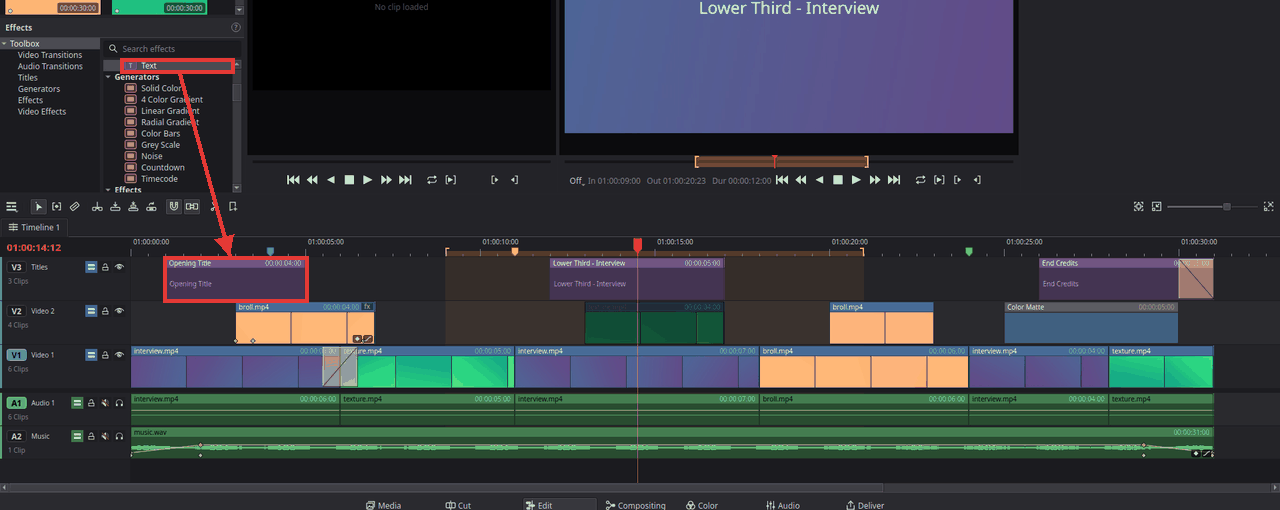
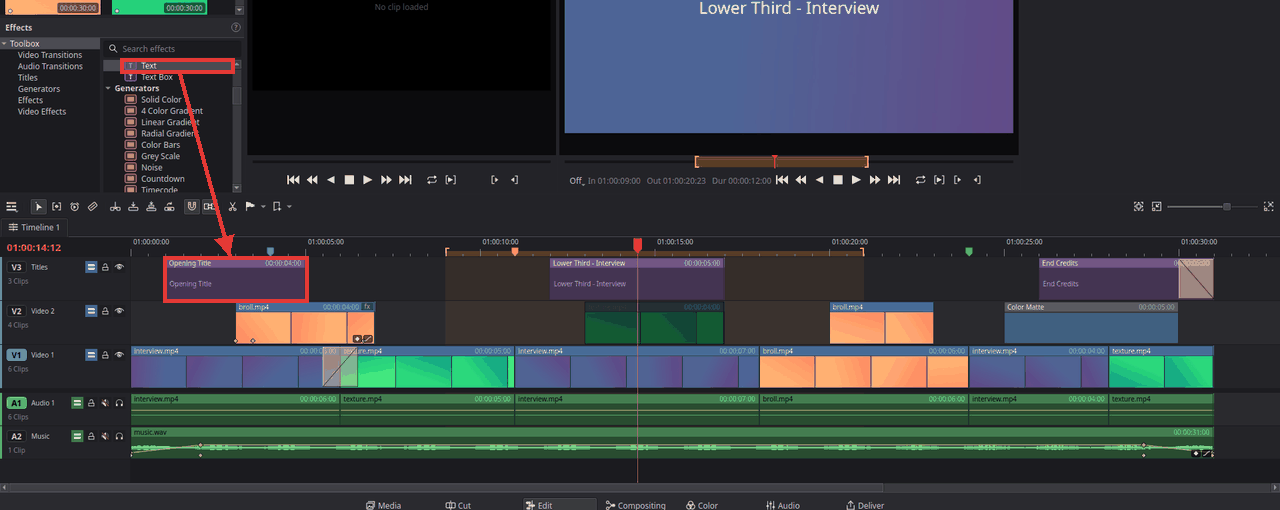
Guide and spec: title presets, round 10 rows
The getting-started guide's Add a title steps name the presets, the
Title tab opening on selection, Position, Anchor and Scroll; the help
index maps the presets to it; the library screenshot is retaken.
Spec rows 5.5, 14.6 - 14.9, 35.28 and the round summary.

diff --git a/docs/behavior-spec.md b/docs/behavior-spec.md
@@ -120,6 +120,7 @@ convention switches live in `PlaybackBehaviour` (`src/playback/PlaybackEngine.h`
 | 5.2 | A modifier during the drop inserts instead of overwriting. | Decision: Ctrl inserts (no single convention is universal). |
 | 5.3 | Effects dropped on a clip are applied to it; transitions dropped near an edge go to that edge. | OK (tw dropEffectsTransitionsAndTitles) |
 | 5.4 | Titles / generators dropped on a video track create a clip of the standard generator length. | OK (tw dropEffectsTransitionsAndTitles) |
+| 5.5 | A drop in the empty space above the top video track or below the last audio track creates only the tracks its clips land on: a video-only clip makes a new video track and no empty audio track, an audio-only clip a new audio track and no empty video track. | Fixed (bughunt10: a video-only clip dropped above V1 also created an empty A2; `planDrop()` keeps only the needed new tracks; test_timelinedrop spec5_5_videoOnlyAboveCreatesNoAudioTrack, spec5_5_audioOnlyBelowCreatesNoVideoTrack) |
 
 ## 6. Destination controls and auto track selectors
 
@@ -276,6 +277,10 @@ convention switches live in `PlaybackBehaviour` (`src/playback/PlaybackEngine.h`
 | 14.3 | Title text and style are edited in the inspector, one undo step per typing burst. | OK (in titleClipTextIsOneUndoStepPerBurst) |
 | 14.4 | Titles and generators can be trimmed to any length (no media limit). | OK (eo, sourceDurationUs = 0) |
 | 14.5 | A new Text title (Effects > Titles > Text) reads "Basic Title", as in Resolve; titles of older projects keep their text. | Fixed (bughunt7: it read "Title"; test_bughunt7edit spec14_5_newTextTitleReadsBasicTitle) |
+| 14.6 | Effects > Titles holds our own presets, as a Resolve user looks for them: Left Lower Third, Middle Lower Third, Right Lower Third (a name and a role low in the frame on a dark box), Scroll (rolling credits), Text and Text Box (text on a plain box). They are Title clips with the same parameters and only other defaults (our own simple design: system font, flat box); a preset clip is named after the preset, and the Inspector's Title tab shows one group named after it (text, font, size, colours, outline, background box, Position X / Y, Anchor, Scroll; reset goes back to the preset's defaults). Titles of different presets edit together when several are selected. | Fixed (bughunt10: the library had only Text; `EffectRegistry::registerTitles()`, core/TitlePresets.h, `ClipData::generator` of Title clips; test_bughunt10 spec14_6_titlePresetsInTheLibrary) |
+| 14.7 | A title's Position X / Position Y place its text block (0 .. 1 of the frame from the left and from the bottom, 0.5 = centre, keyframable), and Anchor says which side of the block sits at Position X (a left lower third grows to the right). The default (0.5, 0.5, centre) is the centred block titles always had. GPU and CPU draw the same pixels. | Fixed (bughunt10: a title could only be moved with the Video tab's transform; `TitleStyle::posX / posY / anchor`; test_compositor spec14_7_titlePositionAndAnchor) |
+| 14.8 | A title with Scroll on (the Scroll preset) rolls up through the frame over the clip's duration: the first frame has the text just below the bottom edge, the last frame just above the top, so a longer clip scrolls more slowly; Position Y is not used. GPU and CPU draw the same pixels. | Fixed (bughunt10: there was no scroll; `TitleStyle::scroll / scrollProgress`; test_compositor spec14_8_scrollRollsOverTheClip) |
+| 14.9 | Selecting a title clip shows the Inspector's Title tab, where its text and look are, as Resolve shows a Text title's controls first; selecting a clip without a title afterwards goes back to the Video tab (as captions, 28.15). | Fixed (bughunt10: the Inspector stayed on the Video tab; `InspectorPanel::showClip()`; test_bughunt10 spec14_9_selectingATitleShowsTheTitleTab) |
 
 ## 15. Keyframes (inspector, keyframe editor, curve editor)
 
@@ -756,6 +761,7 @@ tests/core/test_sourcetape.cpp.
 | 35.25 | Inspector, effects and titles panels on the Cut page. | Deferred: use the Edit page (the selection carries over). |
 | 35.26 | Dragging media onto the Cut page's timeline viewer shows the smart edits as an overlay (Smart Insert, Append, Ripple Overwrite, Close Up, Place On Top, Source Overwrite, with their keys); dropping on one runs it with the dropped clips (one undo step, named after the edit). | Fixed (polish round 2; cp dropOnTheViewerOffersTheSmartEdits). Decision: only the timeline viewer takes the drop (as on the Edit page); the source modes keep their own drag. |
 | 35.27 | A Cut page edit selects the new clip with its video part current, so the Edit page Inspector stays on the Video tab (as 24.15). | Fixed (bughunt2: CutEditor selected the audio part last and the Inspector switched to Audio after every Cut page edit; test_bughunt2 spec35_27_cutEditKeepsVideoTab) |
+| 35.28 | A marked source range edited into a timeline of another frame rate (Cut page Append and the other smart edits, Edit page insert / overwrite, drops) covers the whole range: every timeline frame that starts inside it, so the Out frame is shown. In 1:00 / Out 7:00 of a 25 fps source (151 frames, 6.04 s) is a 6:01 clip (145 frames) on a 24 fps timeline. Never longer than the media; same-rate ranges are exact. | Fixed (bughunt10: rounding bug, the frames were rounded down to 6:00 and the Out frame was lost; `TimelineController::makeMediaClips()`, `usToFramesCeil()`; test_bughunt10 spec35_28_appendOfAnotherRateCoversTheMarkedRange) |
 
 ## 36. Animations (v2.2)
 
@@ -1290,3 +1296,8 @@ Tests: `bh4` = `tests/app/test_bughunt4.cpp`.
   describes the Compositing and Color pages), 44b.30 (strip selection visible, right-click
   keeps it), 45.2 (no subtitle export for audio-only formats) and 45.3 (Deliver labels follow
   the timeline format).
+- The bughunt10 branch (tenth bug hunt round: title presets, round 9 leftovers) added 5.5 (a
+  drop in the empty space creates only the tracks its clips need), 14.6 (the title presets:
+  Left / Middle / Right Lower Third, Scroll, Text, Text Box), 14.7 (a title's Position X / Y
+  and Anchor), 14.8 (Scroll over the clip's duration), 14.9 (selecting a title shows the Title
+  tab) and 35.28 (a marked range at another frame rate covers the Out frame).

diff --git a/docs/guide/getting-started.md b/docs/guide/getting-started.md
@@ -141,15 +141,23 @@ Made a mistake? **Ctrl+Z** undoes, **Ctrl+Shift+Z** redoes.
 ## Add a title
 
 1. Click **Effects** at the top left to open the effects library.
-2. In **Toolbox > Titles**, find **Text**.
-3. Drag **Text** onto an empty video track above your clips, where the title should appear. It
-   becomes a five-second title clip.
+2. In **Toolbox > Titles**, pick a title:
+   - **Text**: a plain line of text in the middle of the picture.
+   - **Left Lower Third**, **Middle Lower Third**, **Right Lower Third**: a name and a role low
+     in the picture, on a dark box, as used to introduce someone.
+   - **Scroll**: rolling credits that move up through the picture over the length of the clip.
+   - **Text Box**: a text on a plain background box.
+3. Drag the title onto an empty video track above your clips, where it should appear (or
+   double-click it to add it at the playhead). It becomes a five-second title clip.
 
    ![Dragging the Text title onto the timeline](images/getting-started/6-title.png)
 
-4. With the title clip selected, open the **Title** tab of the Inspector and type your text.
-   There you can also change the font, size, colour, outline and background. To move the title,
-   use **Position X** and **Position Y** on the **Video** tab.
+4. Select the title clip: the Inspector opens on its **Title** tab. Type your text there (press
+   **Enter** for a new line). There you can also change the font, size, colour, outline and
+   background box, and move the text with **Position X** and **Position Y** (0.5 is the
+   middle). **Anchor** says which side of the text stays at Position X, so a left lower third
+   grows to the right. Tick **Scroll** to make any title roll up like credits; a longer clip
+   scrolls more slowly.
 
 Drag the edges of the title clip to make it show for a shorter or longer time.
 
